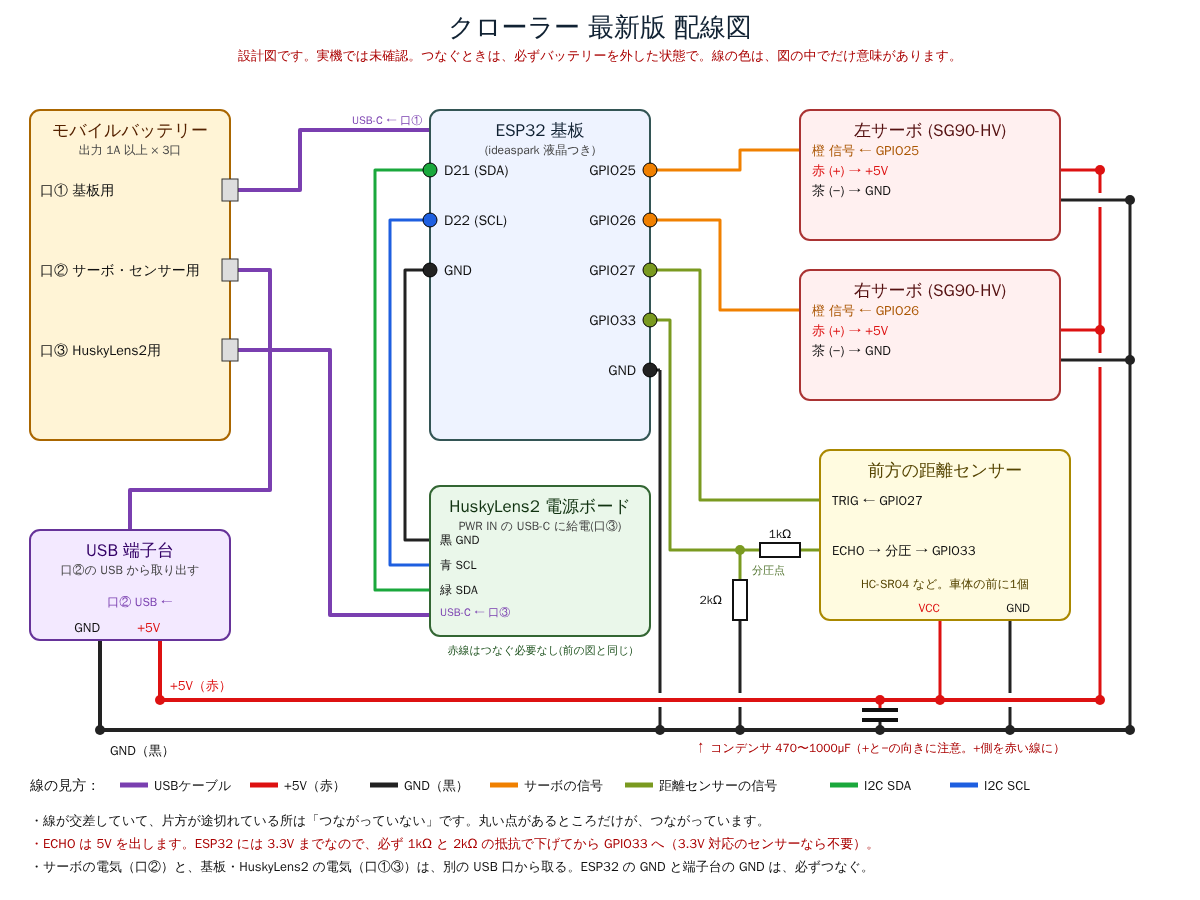
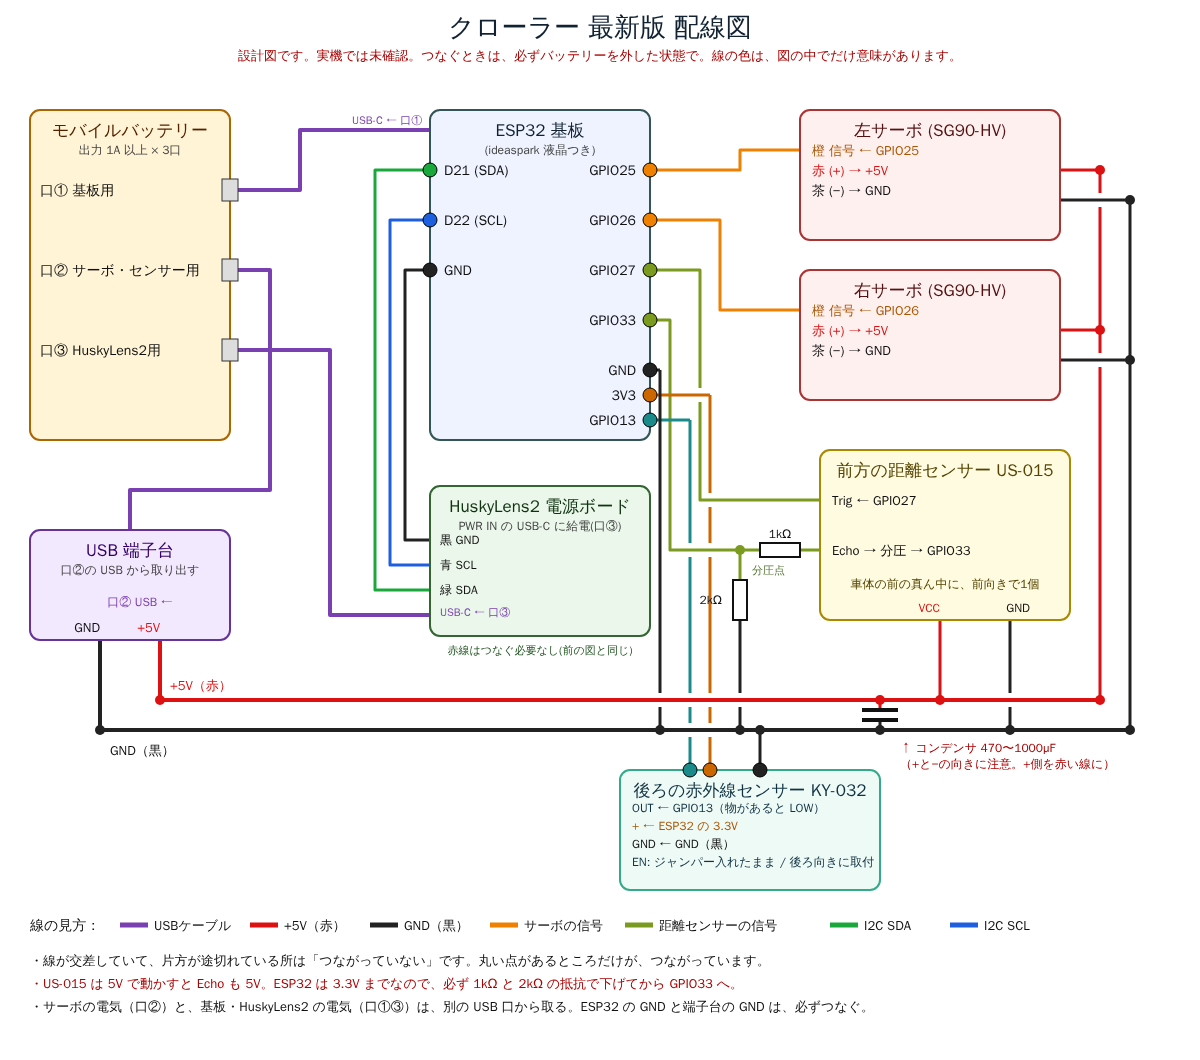
Wiring diagram: US-015 front sensor and rear KY-032 IR sensor
Claude-Session: https://claude.ai/code/session_012mYKMKpnkA774TEi34z85Q

diff --git a/HuskyLens2/make_wiring_latest.py b/HuskyLens2/make_wiring_latest.py
@@ -1,4 +1,4 @@
-W,H=1200,900
+W,H=1200,1060
 o=[]
 def add(s): o.append(s)
 def line(pts,col,w=3,dash=None):
@@ -41,8 +41,13 @@ line([(430,270),(405,270),(405,540),(430,540)],BLK)
 line([(650,170),(740,170),(740,150),(800,150)],ORG)
 line([(650,220),(720,220),(720,310),(800,310)],ORG)
 # sonar signals
-line([(650,270),(700,270),(700,500),(820,500)],OLV)
+line([(650,270),(700,270),(700,388)],OLV); line([(700,402),(700,500),(820,500)],OLV)
 line([(650,320),(670,320),(670,550),(820,550)],OLV)
+# rear IR sensor wires: 3V3 (x=710) and GPIO13 (x=690) go down to the sensor box
+CY="#c60"; TEAL="#1a8a8a"
+line([(650,395),(710,395)],CY); vgap(710,395,770,CY,[500,550,700,730],3)
+line([(650,420),(690,420)],TEAL); vgap(690,420,770,TEAL,[550,700,730],3)
+line([(760,730),(760,770)],BLK)
 # rails
 line([(160,700),(1100,700)],RED,4)
 line([(100,730),(1130,730)],BLK,4)
@@ -64,7 +69,7 @@ line([(880,700),(880,710)],RED); line([(880,720),(880,730)],BLK)
 add('<line x1="862" y1="710" x2="898" y2="710" stroke="#111" stroke-width="4"/><line x1="862" y1="720" x2="898" y2="720" stroke="#111" stroke-width="4"/>')
 # junction dots
 for x,y,c in [(160,700,RED),(940,700,RED),(1100,700,RED),(1100,170,RED),(1100,330,RED),(880,700,RED),
-              (100,730,BLK),(660,730,BLK),(740,730,BLK),(1010,730,BLK),(1130,730,BLK),(880,730,BLK),(1130,200,BLK),(1130,360,BLK),(740,550,OLV)]:
+              (100,730,BLK),(660,730,BLK),(740,730,BLK),(1010,730,BLK),(1130,730,BLK),(880,730,BLK),(1130,200,BLK),(1130,360,BLK),(740,550,OLV),(760,730,BLK)]:
     dot(x,y,c)
 
 # boxes
@@ -75,7 +80,7 @@ box(430,110,220,330,"#eef3ff","#355","ESP32 基板","(ideaspark 液晶つき)")
 text(352,124,"USB-C ← 口①",11,USB)
 for y,col,lab in ((170,GRN,"D21 (SDA)"),(220,BLU,"D22 (SCL)"),(270,"#222","GND")):
     pin(430,y,col); text(444,y+5,lab,14,"#111",bold=True)
-for y,col,lab in ((170,ORG,"GPIO25"),(220,ORG,"GPIO26"),(270,OLV,"GPIO27"),(320,OLV,"GPIO33"),(370,"#222","GND")):
+for y,col,lab in ((170,ORG,"GPIO25"),(220,ORG,"GPIO26"),(270,OLV,"GPIO27"),(320,OLV,"GPIO33"),(370,"#222","GND"),(395,CY,"3V3"),(420,TEAL,"GPIO13")):
     pin(650,y,col); text(636,y+5,lab,14,"#111","end",True)
 box(430,486,220,150,"#eaf7ea","#363","HuskyLens2 電源ボード","PWR IN の USB-C に給電(口③)",  "#131")
 for y,lab in ((540,"黒 GND"),(565,"青 SCL"),(590,"緑 SDA")): text(440,y+4,lab,12); 
@@ -88,25 +93,29 @@ box(800,110,260,130,"#fff0f0","#a33","左サーボ (SG90-HV)",None,"#511")
 text(812,155,"橙 信号 ← GPIO25",13,"#a50"); text(812,175,"赤 (+) → +5V",13,RED); text(812,195,"茶 (−) → GND",13)
 box(800,270,260,130,"#fff0f0","#a33","右サーボ (SG90-HV)",None,"#511")
 text(812,315,"橙 信号 ← GPIO26",13,"#a50"); text(812,335,"赤 (+) → +5V",13,RED); text(812,355,"茶 (−) → GND",13)
-box(820,450,250,170,"#fffbe0","#a80","前方の距離センサー",None,"#540"); text(945,588,"HC-SR04 など。車体の前に1個",12,"#540","middle")
-text(832,505,"TRIG ← GPIO27",13); text(832,555,"ECHO → 分圧 → GPIO33",13)
+box(820,450,250,170,"#fffbe0","#a80","前方の距離センサー US-015",None,"#540"); text(945,588,"車体の前の真ん中に、前向きで1個",12,"#540","middle")
+text(832,505,"Trig ← GPIO27",13); text(832,555,"Echo → 分圧 → GPIO33",13)
 text(940,612,"VCC",12,RED,"end"); text(1030,612,"GND",12,"#111","end")
+# rear IR obstacle sensor box
+box(620,770,260,120,"#eefaf5","#3a8","後ろの赤外線センサー KY-032",None,"#134")
+for x,c in ((690,TEAL),(710,CY),(760,"#222")): pin(x,770,c)
+text(632,812,"OUT ← GPIO13（物があると LOW）",12,"#134"); text(632,830,"+ ← ESP32 の 3.3V",12,"#a50"); text(632,848,"GND ← GND（黒）",12,"#111"); text(632,866,"EN: ジャンパー入れたまま / 後ろ向きに取付",12,"#134")
 # divider labels
 res(760,543,40,14,"",0,0); text(780,538,"1kΩ",12,"#111","middle"); 
 add('<rect x="733" y="580" width="14" height="40" fill="#fff" stroke="#111" stroke-width="2"/>'); text(722,604,"2kΩ",12,"#111","end")
 text(752,574,"分圧点",11,"#573","start")
-text(880,752,"↑ コンデンサ 470〜1000µF（+と−の向きに注意。+側を赤い線に）",12,"#a00","middle")
+text(900,752,"↑ コンデンサ 470〜1000µF",12,"#a00","start"); text(900,768,"（+と−の向きに注意。+側を赤い線に）",12,"#a00","start")
 text(170,690,"+5V（赤）",13,RED,"start",True); text(110,755,"GND（黒）",13,"#111","start",True)
 # titles
 text(600,36,"クローラー 最新版 配線図",26,"#123","middle",True)
 text(600,60,"設計図です。実機では未確認。つなぐときは、必ずバッテリーを外した状態で。線の色は、図の中でだけ意味があります。",13,"#a00","middle")
 # legend
-text(30,790,"線の見方：",14,"#111",bold=True)
+text(30,930,"線の見方：",14,"#111",bold=True)
 for i,(c,lab) in enumerate(((USB,"USBケーブル"),(RED,"+5V（赤）"),(BLK,"GND（黒）"),(ORG,"サーボの信号"),(OLV,"距離センサーの信号"),(GRN,"I2C SDA"),(BLU,"I2C SCL"))):
     x=(120,250,370,490,625,830,950)[i]
-    line([(x,785),(x+28,785)],c,5); text(x+34,790,lab,13)
-text(30,825,"・線が交差していて、片方が途切れている所は「つながっていない」です。丸い点があるところだけが、つながっています。",13)
-text(30,848,"・ECHO は 5V を出します。ESP32 には 3.3V までなので、必ず 1kΩ と 2kΩ の抵抗で下げてから GPIO33 へ（3.3V 対応のセンサーなら不要）。",13,"#a00")
-text(30,871,"・サーボの電気（口②）と、基板・HuskyLens2 の電気（口①③）は、別の USB 口から取る。ESP32 の GND と端子台の GND は、必ずつなぐ。",13)
+    line([(x,925),(x+28,925)],c,5); text(x+34,930,lab,13)
+text(30,965,"・線が交差していて、片方が途切れている所は「つながっていない」です。丸い点があるところだけが、つながっています。",13)
+text(30,988,"・US-015 は 5V で動かすと Echo も 5V。ESP32 は 3.3V までなので、必ず 1kΩ と 2kΩ の抵抗で下げてから GPIO33 へ。",13,"#a00")
+text(30,1011,"・サーボの電気（口②）と、基板・HuskyLens2 の電気（口①③）は、別の USB 口から取る。ESP32 の GND と端子台の GND は、必ずつなぐ。",13)
 svg='<svg xmlns="http://www.w3.org/2000/svg" viewBox="0 0 %d %d" width="%d" height="%d" font-family="Noto Sans CJK JP, WenQuanYi Zen Hei, Hiragino Sans, Yu Gothic, sans-serif"><rect width="%d" height="%d" fill="#ffffff"/>%s</svg>'%(W,H,W,H,W,H,"\n".join(o))
 open("/home/user/GoodCameraApp/HuskyLens2/docs/crawler_wiring_latest.svg","w",encoding="utf-8").write(svg)
